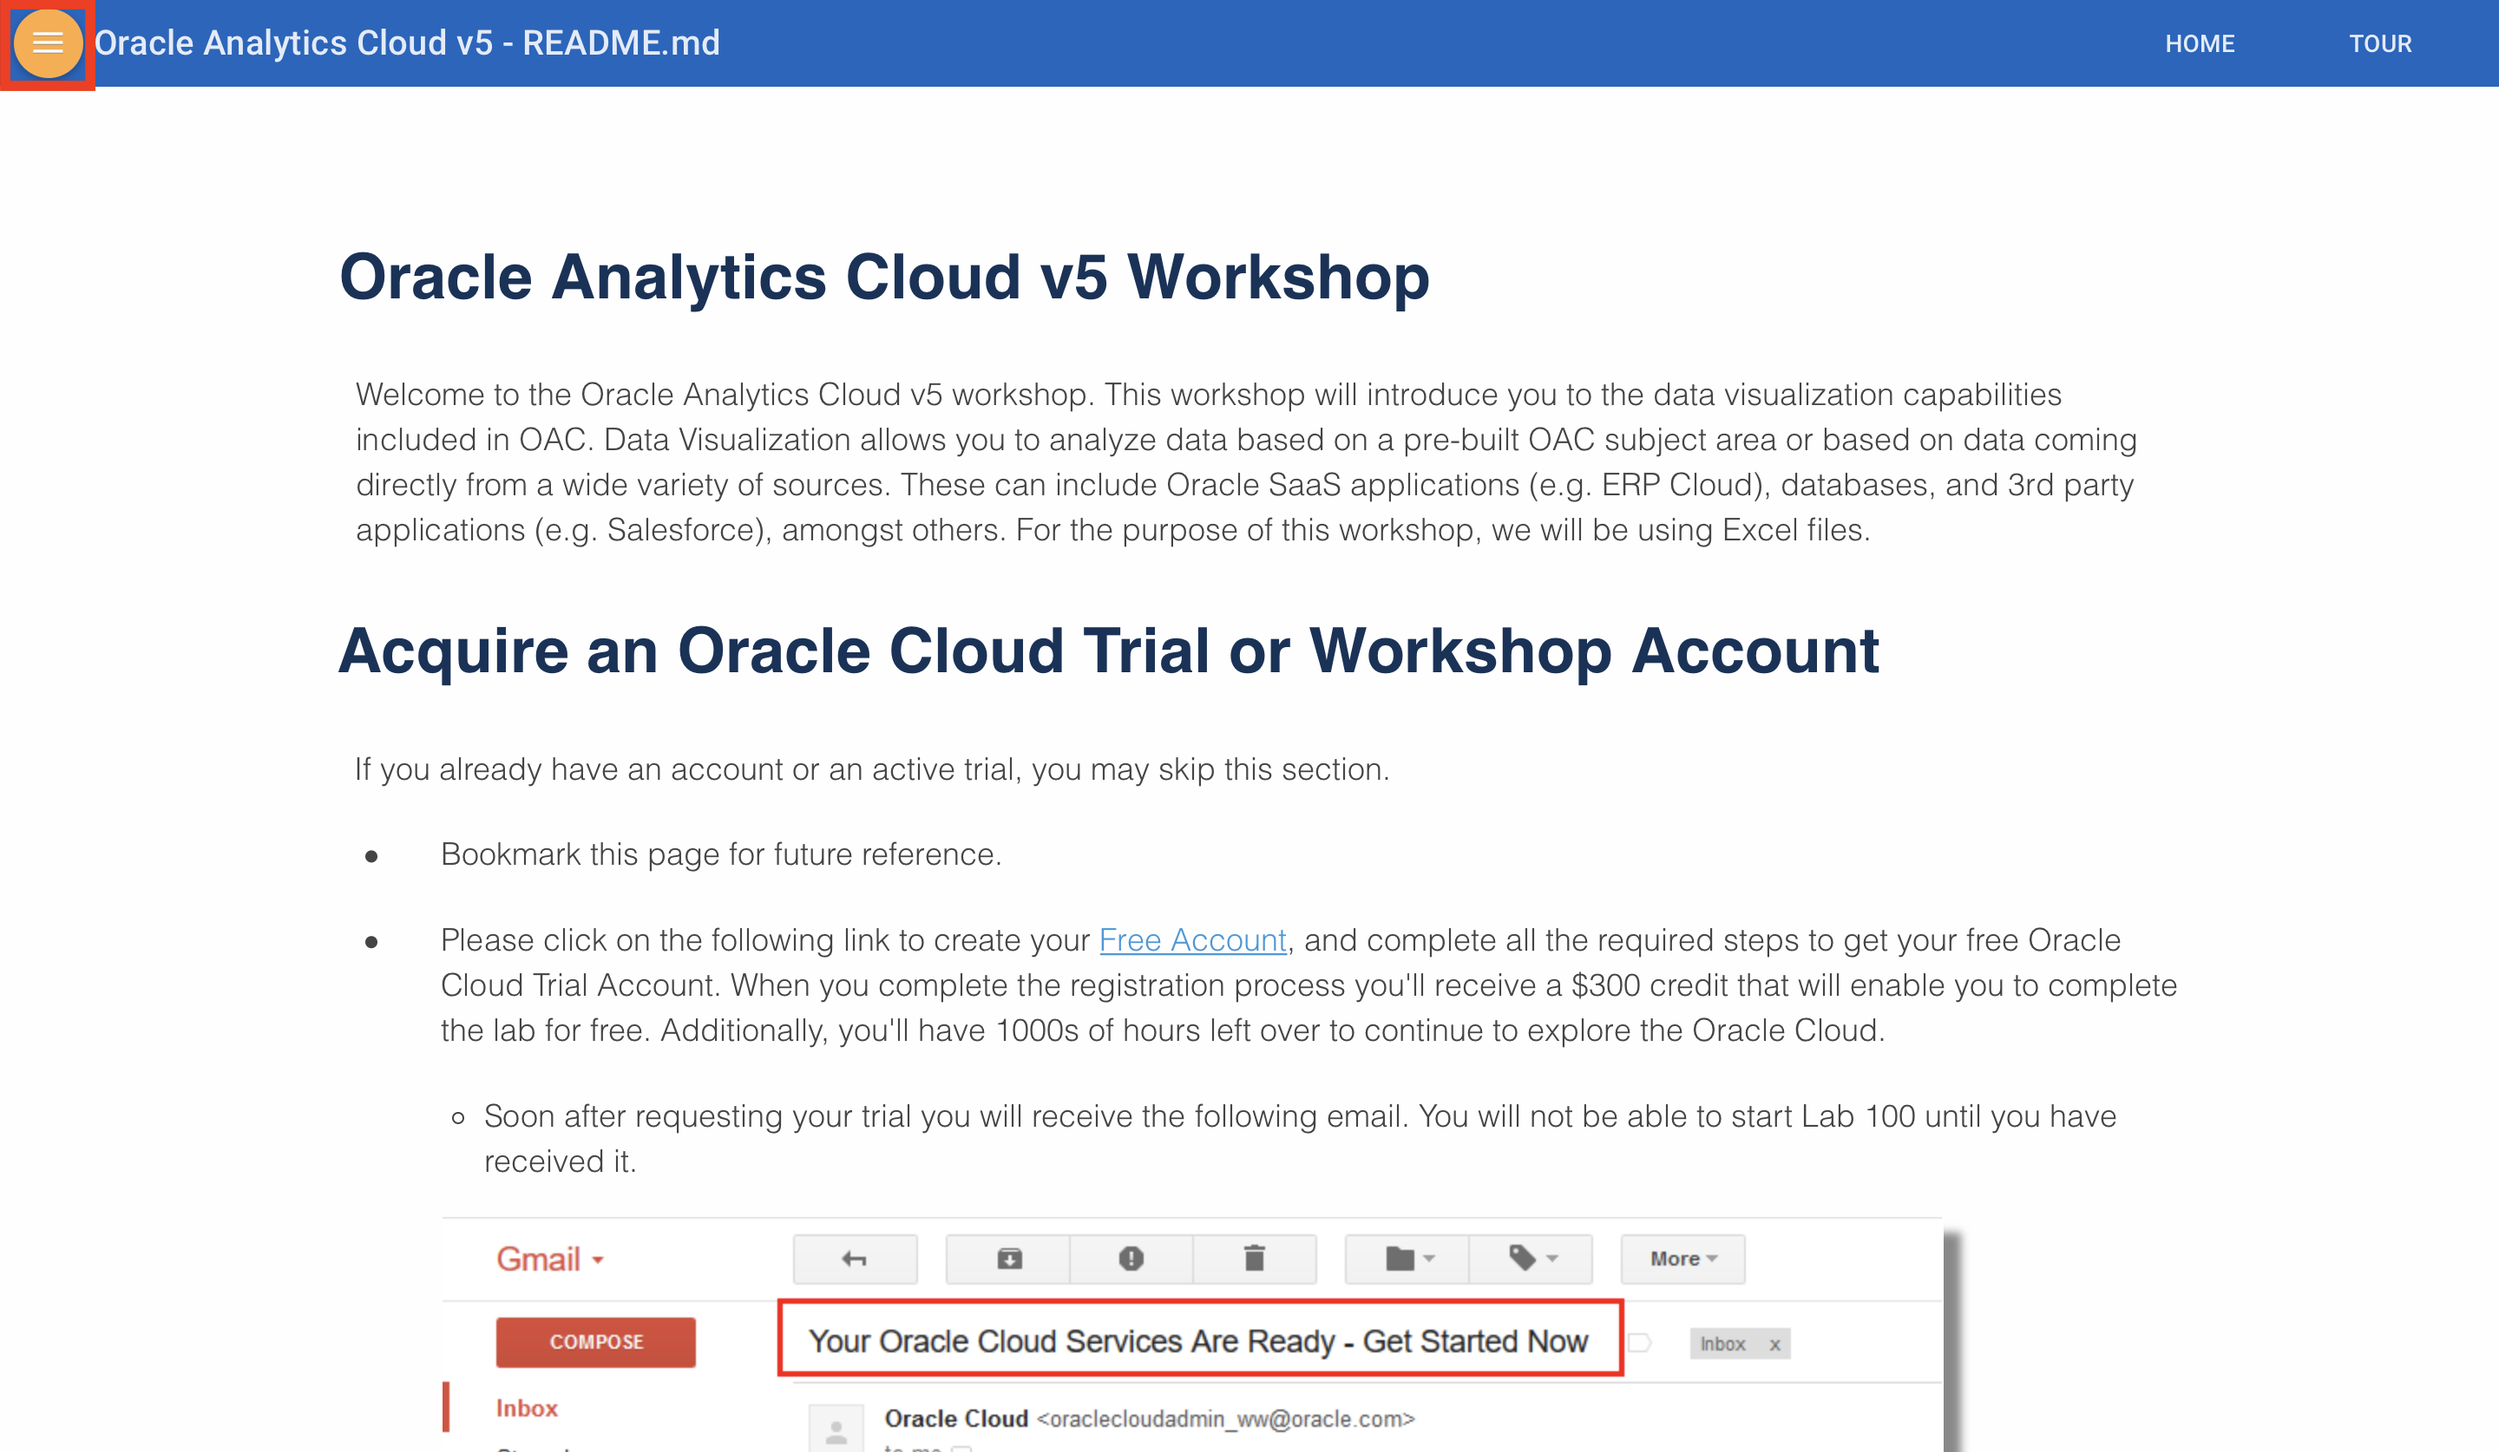
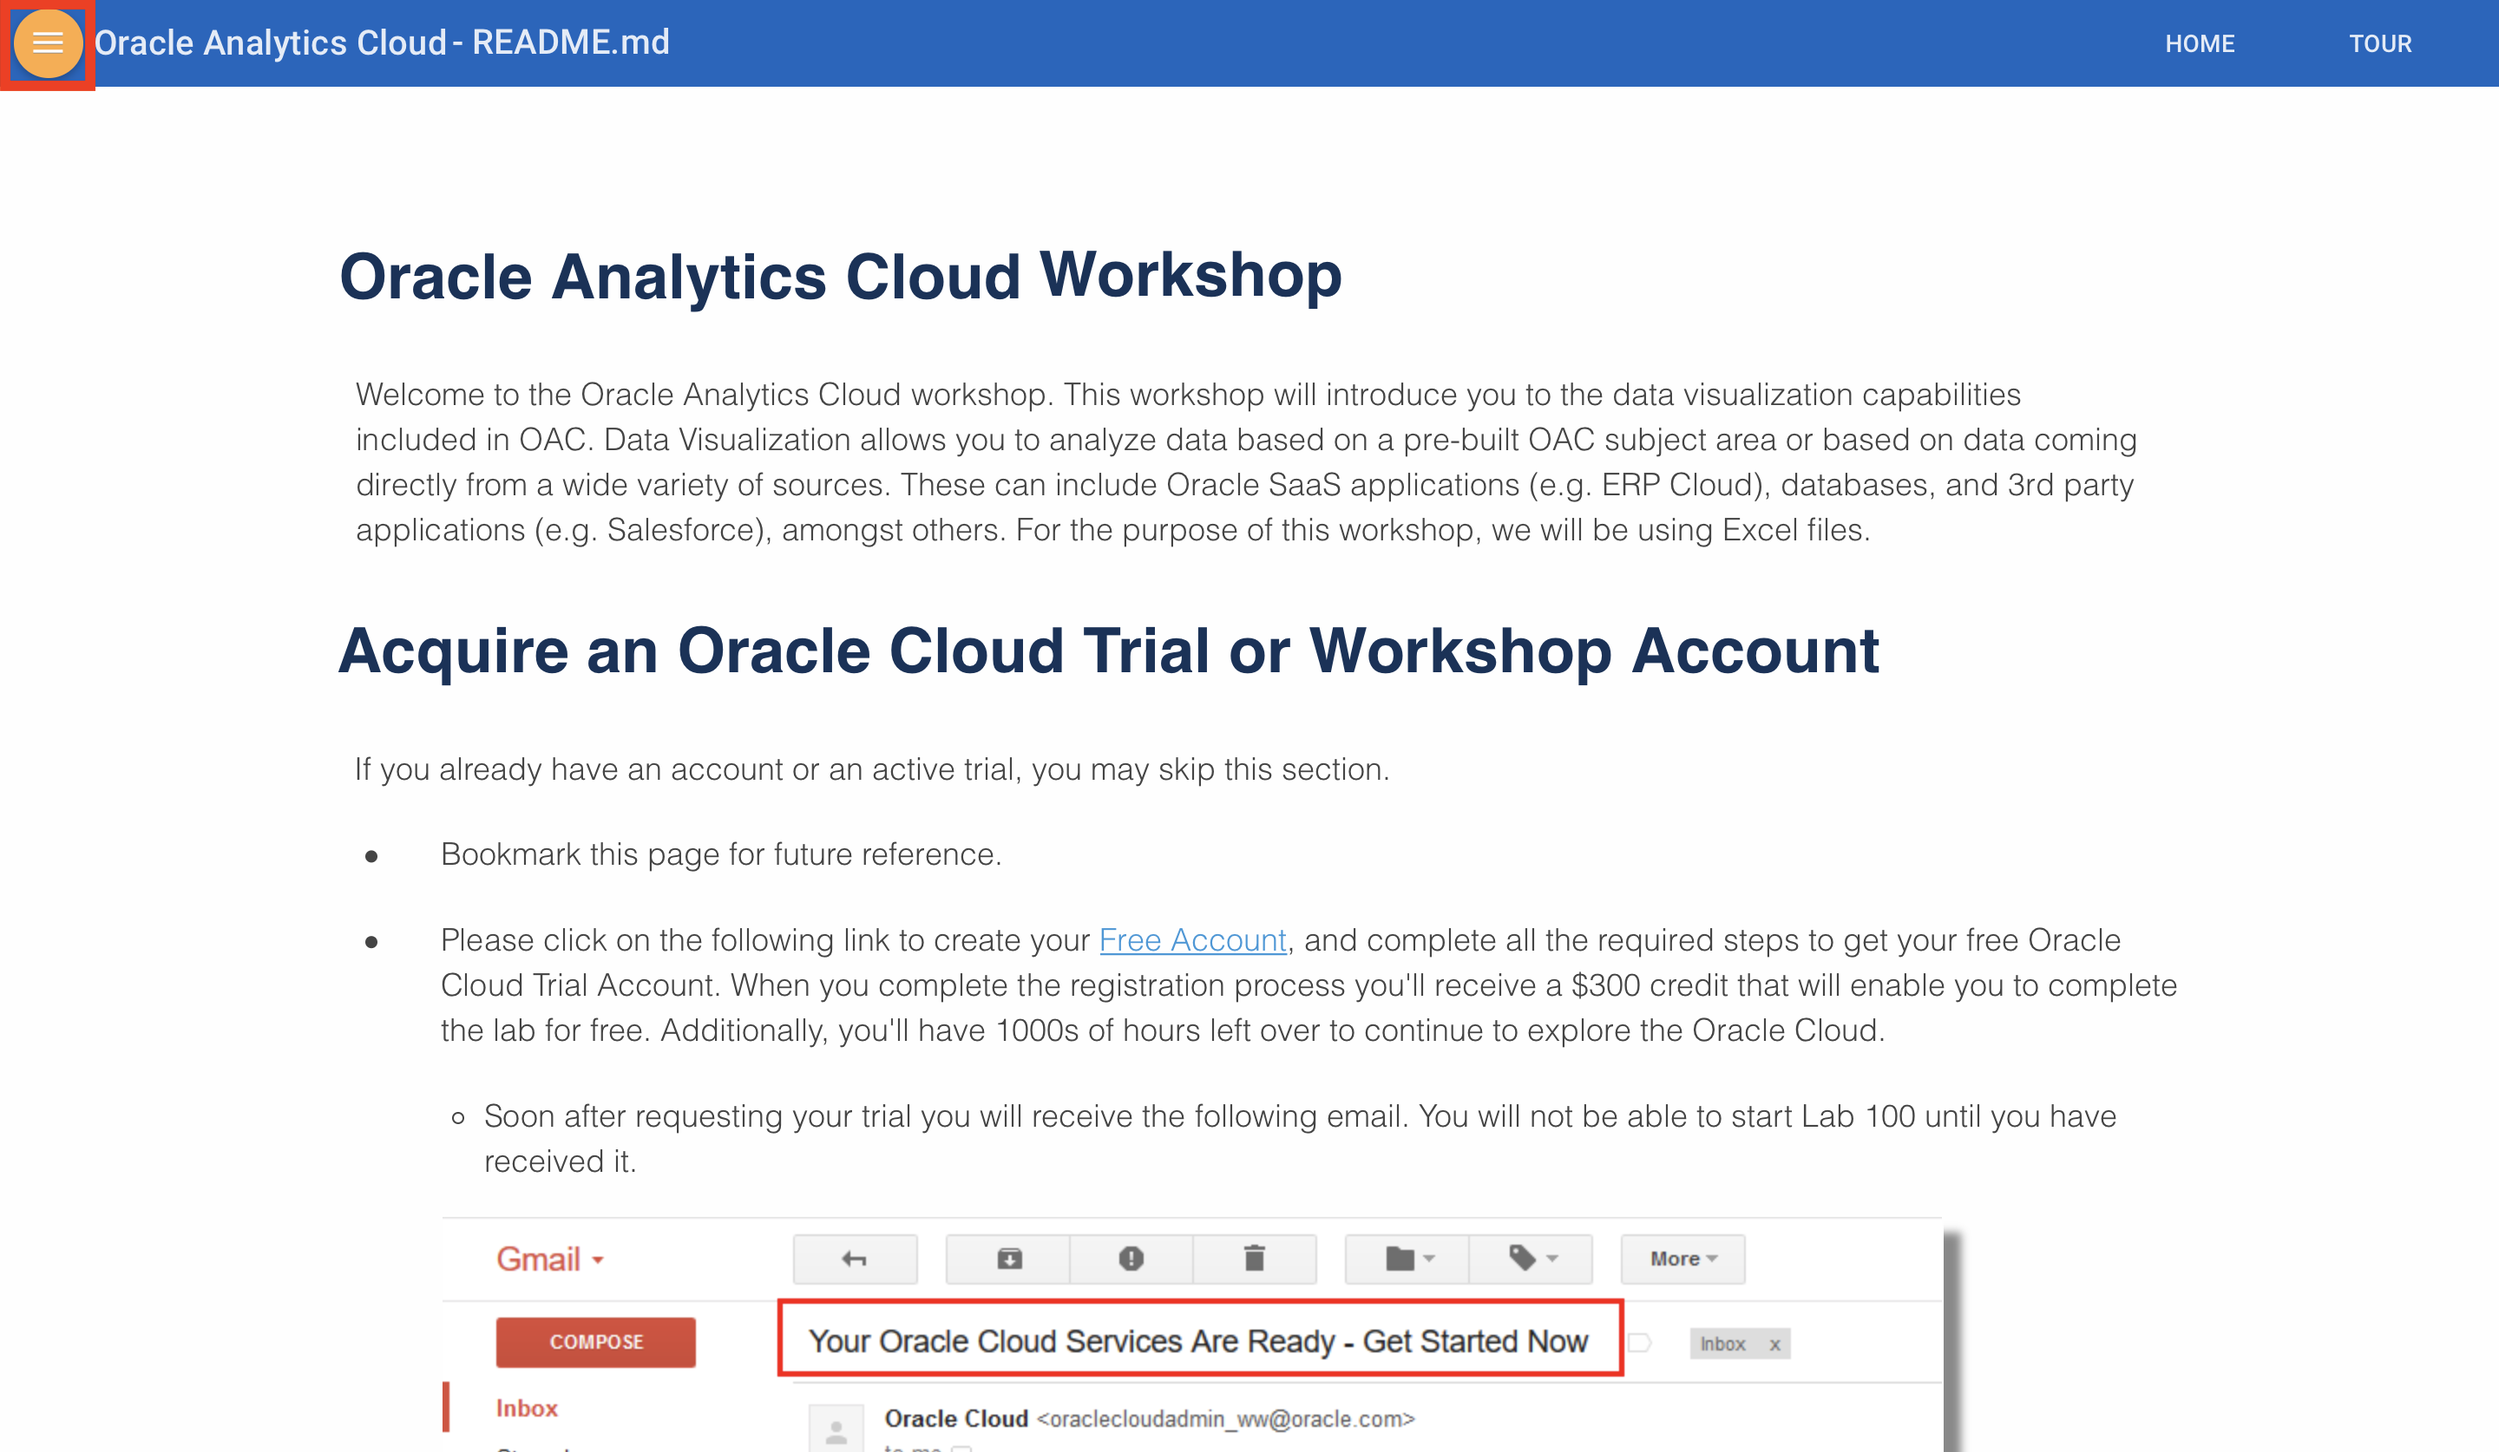
.DS

Changed region(s): [[0.375, 0.2485, 0.8125, 0.2796], [0.4062, 0.1553, 0.5938, 0.2174], [0.1875, 0.0, 0.2812, 0.0621]]

diff --git a/workshops/dvcs-5/LabGuide500.md b/workshops/dvcs-5/LabGuide500.md
@@ -5,7 +5,7 @@ Key takeaways from this lab:
 - Using the **Machine Learning** abilities of OAC
 
 ### What is Machine Learning?
-Machine learning, at its most basic, is the usage of algorithms to parse data, learn from it, and then make a determination or prediction about something. The Machine Learning abilities of OAC5 allow you to make predictions based on your data set. Data Visualization also provides scripts to train data models that you can add to other data sets to predict trends and patterns in data.
+Machine learning, at its most basic, is the usage of algorithms to parse data, learn from it, and then make a determination or prediction about something. The Machine Learning abilities of OAC allow you to make predictions based on your data set. Data Visualization also provides scripts to train data models that you can add to other data sets to predict trends and patterns in data.
 
 ### Scenario
 
@@ -420,6 +420,6 @@ She wants to take advantage of existing data gathered by looking at subscription
 
 Congratulations! You have completed the workshop.
 
-In this workshop, we were able to quickly assess the effectiveness of your social media campaigns on sales and how sales trends correspond to social media tone/sentiment. We also used OAC5's machine learning abilities to predict the likelihood of customer's subscribing to KoolKart's mailing list.
+In this workshop, we were able to quickly assess the effectiveness of your social media campaigns on sales and how sales trends correspond to social media tone/sentiment. We also used OAC's machine learning abilities to predict the likelihood of customer's subscribing to KoolKart's mailing list.
 
-This concludes our Oracle Analytics Cloud 5 Data Visualization workshop.
+This concludes our Oracle Analytics Cloud Data Visualization workshop.

diff --git a/workshops/dvcs-5/LabGuide100.md b/workshops/dvcs-5/LabGuide100.md
@@ -1,8 +1,8 @@
-## Lab 1 - Getting Started with OACv5 DV
+## Lab 1 - Getting Started with OAC DV
 
 ## Objectives
 
-This section focuses on getting started with OACv5 DV and introducing users to the DV interface.
+This section focuses on getting started with OAC DV and introducing users to the DV interface.
 
 Key takeaways from this lab:
 - Starting an Autonomous OAC instance 
@@ -26,7 +26,7 @@ Data Visualization makes it easy to visualize your data, so you can focus on exp
 
 - Data Visualization provides you with tools for faster and simpler assembly of detailed reports arranged together in an appealing and meaningful display. Data Visualization goes even further, to give you dynamic views for focused, exploratory interaction with your data.
 
-### Data Visualization provides the following:
+## Data Visualization provides the following:
 
 - **Guidance**: Grammar-centric approach to visualizations combined with powerful keyword search and pattern detection to aid all users making new discoveries.
 
@@ -121,7 +121,7 @@ Now let’s get started!
 
 ### 1b) Reviewing the Home page and the primary menus
 
-On logging into OACv5, you will see the home page.
+On logging into OAC, you will see the home page.
 
 ![](images/100/img_1b_1.png)  
 

diff --git a/workshops/dvcs-5/README.md b/workshops/dvcs-5/README.md
@@ -1,6 +1,6 @@
-## Oracle Analytics Cloud v5 Workshop
+## Oracle Analytics Cloud Workshop
 
-Welcome to the Oracle Analytics Cloud v5 workshop. This workshop will introduce you to the data visualization capabilities included in OAC. Data Visualization allows you to analyze data coming directly from a wide variety of sources. These can include Oracle SaaS applications (e.g. ERP Cloud), databases, local files, and 3rd party applications (e.g. Salesforce), amongst others. For the purpose of this workshop, we will be using Excel files.
+Welcome to the Oracle Analytics Cloud workshop. This workshop will introduce you to the data visualization capabilities included in OAC. Data Visualization allows you to analyze data coming directly from a wide variety of sources. These can include Oracle SaaS applications (e.g. ERP Cloud), databases, local files, and 3rd party applications (e.g. Salesforce), amongst others. For the purpose of this workshop, we will be using Excel files.
 
 ## Acquire an Oracle Cloud Trial or Workshop Account
 
